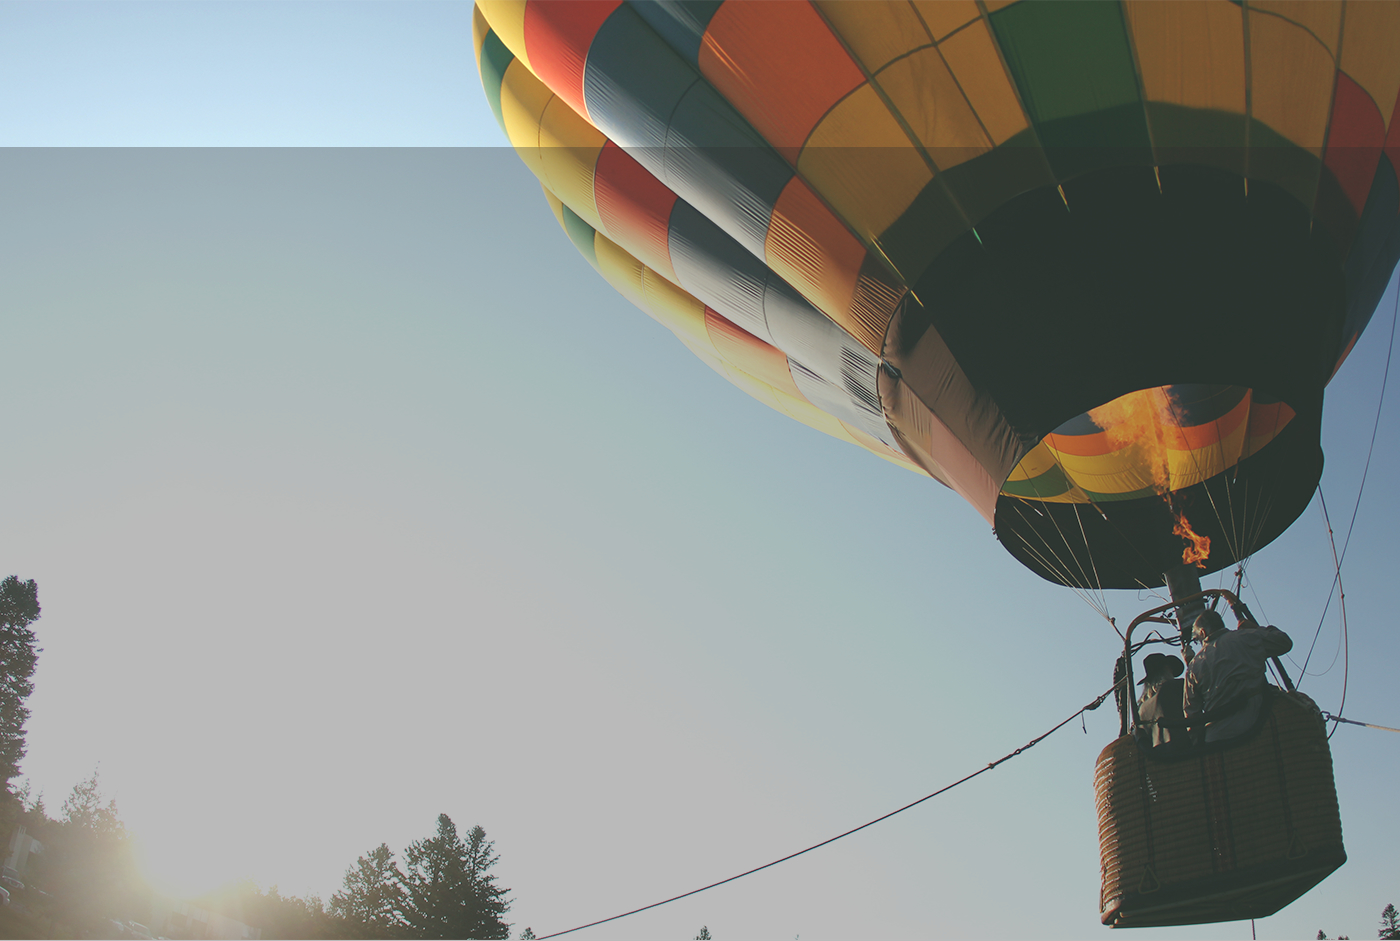
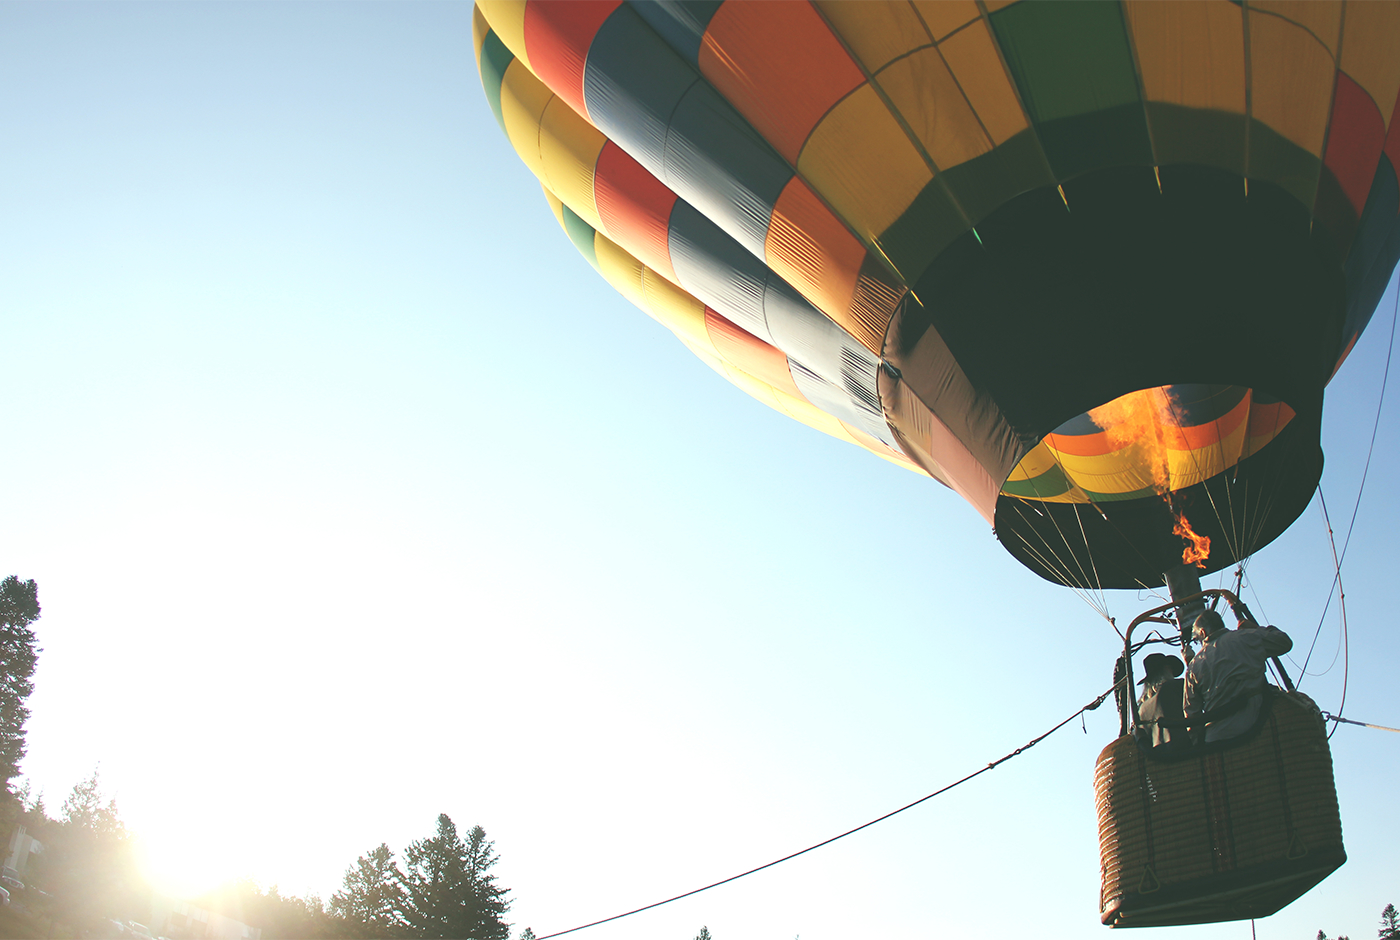
Переправил макет для урока 9

diff --git a/lesson9/css/style.css b/lesson9/css/style.css
@@ -57,8 +57,8 @@ body {
 
 header {
   width: 100%;
-  min-height: 60rem;
-  background-image: url("../img/main-bg.jpg");
+  min-height: 90rem;
+  background-image: url("../img/main-f.png"), url("../img/main-bg.jpg");
   background-size: cover;
 }
 

diff --git a/lesson9/less/style.less b/lesson9/less/style.less
@@ -63,8 +63,8 @@ body {
 
 header {
 	width: 100%;
-	min-height: 60rem;
-	background-image: url(../img/main-bg.jpg);
+	min-height: 90rem;
+	background-image: url(../img/main-f.png), url(../img/main-bg.jpg);
 	background-size: cover;
 }
 
